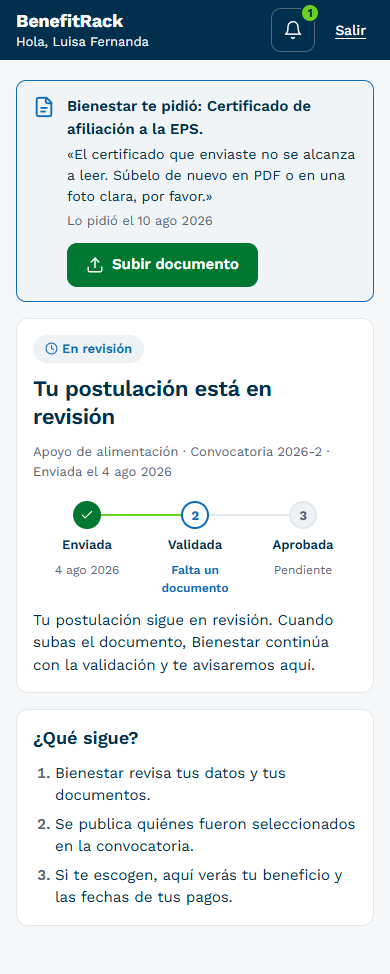
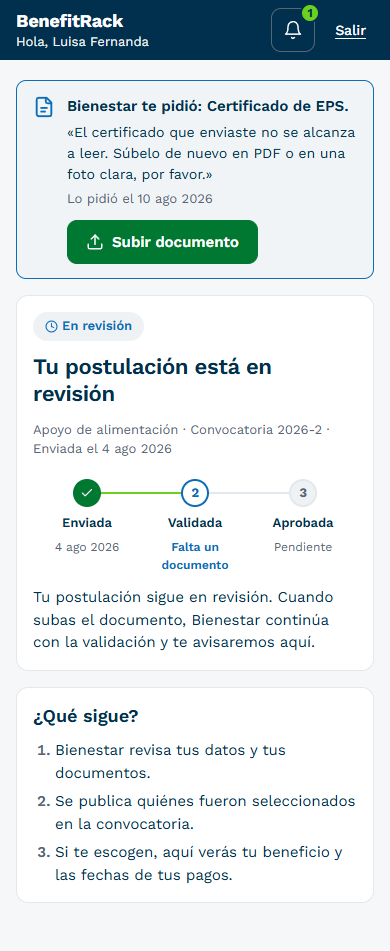
fix: pruebas del orden de la revisión y nombre «Certificado de EPS» en todas las vistas
- 03-detalle-postulacion: pruebas de que «Datos confirmados» y «Aprobar»
  respetan el orden (deshabilitados hasta Validada / sin cupos; ninguno
  habilitado en aprobada o rechazada).
- 01-mi-proceso y 08-subir-documento: «Certificado de afiliación a la EPS»
  pasa a «Certificado de EPS» (nombre del catálogo tipos_documento).

diff --git a/vistas/herramientas/pruebas/03-detalle-postulacion.js b/vistas/herramientas/pruebas/03-detalle-postulacion.js
@@ -41,6 +41,36 @@ module.exports = [
       exige(actual === NOMBRE, `miga actual: «${actual}»`);
     },
   })),
+  // Orden obligatorio (spec §5 Vista 3): primero «Datos confirmados» (Validada), después «Aprobar».
+  ...['pendiente', 'documento-pedido', 'documento-recibido', 'pedir-documento'].map((estado) => ({
+    estado,
+    nombre: 'orden: «Datos confirmados» deshabilitado mientras haya documentos sin validar',
+    prueba: async (page) => {
+      exige(await deshabilitado(page, '[data-prueba=confirmar-datos]'), '[data-prueba=confirmar-datos] no tiene disabled');
+    },
+  })),
+  ...['pendiente', 'documento-pedido', 'documento-recibido', 'pedir-documento', 'sin-cupos'].map((estado) => ({
+    estado,
+    nombre: 'orden: «Aprobar» deshabilitado (no está Validada o no hay cupos)',
+    prueba: async (page) => {
+      exige(await deshabilitado(page, '[data-prueba=aprobar]'), '[data-prueba=aprobar] no tiene disabled');
+    },
+  })),
+  {
+    estado: 'validada',
+    nombre: 'orden: «Aprobar» habilitado en Validada',
+    prueba: async (page) => {
+      exige(!(await deshabilitado(page, '[data-prueba=aprobar]')), '[data-prueba=aprobar] está deshabilitado');
+    },
+  },
+  ...['aprobada', 'rechazada'].map((estado) => ({
+    estado,
+    nombre: 'orden: ya decidida, no hay «Aprobar» habilitado',
+    prueba: async (page) => {
+      const habilitados = await page.$$eval('[data-prueba=aprobar]', (bs) => bs.filter((b) => !b.disabled).length);
+      exige(habilitados === 0, `hay ${habilitados} [data-prueba=aprobar] habilitado(s)`);
+    },
+  })),
   {
     estado: 'pendiente',
     nombre: 'CA-4 «Aprobar» deshabilitado mientras no esté Validada',

diff --git a/vistas/01-mi-proceso/html/documento-pedido.html b/vistas/01-mi-proceso/html/documento-pedido.html
@@ -743,7 +743,7 @@ input[type="checkbox"], input[type="radio"] { width: 20px; height: 20px; accent-
     <div class="br-aviso br-aviso--azul br-aviso--grande" data-prueba="aviso-documento">
       <svg aria-hidden="true" class="br-aviso__icono" viewBox="0 0 24 24" fill="none" stroke="currentColor" stroke-width="2" stroke-linecap="round" stroke-linejoin="round"><path d="M15 2H6a2 2 0 0 0-2 2v16a2 2 0 0 0 2 2h12a2 2 0 0 0 2-2V7Z"></path><path d="M14 2v4a2 2 0 0 0 2 2h4"></path><path d="M9 13h6"></path><path d="M9 17h4"></path></svg>
       <div class="br-aviso__cuerpo">
-        <p class="br-aviso__titulo">Bienestar te pidió: Certificado de afiliación a la EPS.</p>
+        <p class="br-aviso__titulo">Bienestar te pidió: Certificado de EPS.</p>
         <p class="br-aviso__detalle">«El certificado que enviaste no se alcanza a leer. Súbelo de nuevo en PDF o en una foto clara, por favor.»</p>
         <p class="br-suave">Lo pidió el 10 ago 2026</p>
         <a class="br-boton br-boton--primario" href="../../08-subir-documento/html/elegir-archivo.html"><svg aria-hidden="true" width="18" height="18" viewBox="0 0 24 24" fill="none" stroke="currentColor" stroke-width="2" stroke-linecap="round" stroke-linejoin="round"><path d="M21 15v4a2 2 0 0 1-2 2H5a2 2 0 0 1-2-2v-4"></path><path d="m17 8-5-5-5 5"></path><path d="M12 3v12"></path></svg>Subir documento</a>

diff --git a/vistas/_fuente/01-mi-proceso/documento-pedido.html b/vistas/_fuente/01-mi-proceso/documento-pedido.html
@@ -12,7 +12,7 @@
     <div class="br-aviso br-aviso--azul br-aviso--grande" data-prueba="aviso-documento">
       <svg aria-hidden="true" class="br-aviso__icono" viewBox="0 0 24 24" fill="none" stroke="currentColor" stroke-width="2" stroke-linecap="round" stroke-linejoin="round"><path d="M15 2H6a2 2 0 0 0-2 2v16a2 2 0 0 0 2 2h12a2 2 0 0 0 2-2V7Z"></path><path d="M14 2v4a2 2 0 0 0 2 2h4"></path><path d="M9 13h6"></path><path d="M9 17h4"></path></svg>
       <div class="br-aviso__cuerpo">
-        <p class="br-aviso__titulo">Bienestar te pidió: Certificado de afiliación a la EPS.</p>
+        <p class="br-aviso__titulo">Bienestar te pidió: Certificado de EPS.</p>
         <p class="br-aviso__detalle">«El certificado que enviaste no se alcanza a leer. Súbelo de nuevo en PDF o en una foto clara, por favor.»</p>
         <p class="br-suave">Lo pidió el 10 ago 2026</p>
         <a class="br-boton br-boton--primario" href="../../08-subir-documento/html/elegir-archivo.html"><svg aria-hidden="true" width="18" height="18" viewBox="0 0 24 24" fill="none" stroke="currentColor" stroke-width="2" stroke-linecap="round" stroke-linejoin="round"><path d="M21 15v4a2 2 0 0 1-2 2H5a2 2 0 0 1-2-2v-4"></path><path d="m17 8-5-5-5 5"></path><path d="M12 3v12"></path></svg>Subir documento</a>

diff --git a/vistas/08-subir-documento/html/elegir-archivo.html b/vistas/08-subir-documento/html/elegir-archivo.html
@@ -743,7 +743,7 @@ input[type="checkbox"], input[type="radio"] { width: 20px; height: 20px; accent-
     <div class="br-aviso br-aviso--azul br-aviso--grande" data-prueba="pedido">
       <svg aria-hidden="true" class="br-aviso__icono" viewBox="0 0 24 24" fill="none" stroke="currentColor" stroke-width="2" stroke-linecap="round" stroke-linejoin="round"><path d="M15 2H6a2 2 0 0 0-2 2v16a2 2 0 0 0 2 2h12a2 2 0 0 0 2-2V7Z"></path><path d="M14 2v4a2 2 0 0 0 2 2h4"></path><path d="M9 13h6"></path><path d="M9 17h4"></path></svg>
       <div class="br-aviso__cuerpo">
-        <p class="br-aviso__titulo">Bienestar te pidió: Certificado de afiliación a la EPS.</p>
+        <p class="br-aviso__titulo">Bienestar te pidió: Certificado de EPS.</p>
         <p class="br-aviso__detalle">«El certificado que enviaste no se alcanza a leer. Súbelo de nuevo en PDF o en una foto clara, por favor.»</p>
         <p class="br-suave">Lo pidió el 10 ago 2026 · Apoyo de alimentación, convocatoria <span class="br-sin-corte">2026-2</span></p>
       </div>

diff --git a/vistas/08-subir-documento/html/error.html b/vistas/08-subir-documento/html/error.html
@@ -743,7 +743,7 @@ input[type="checkbox"], input[type="radio"] { width: 20px; height: 20px; accent-
     <div class="br-aviso br-aviso--azul br-aviso--grande" data-prueba="pedido">
       <svg aria-hidden="true" class="br-aviso__icono" viewBox="0 0 24 24" fill="none" stroke="currentColor" stroke-width="2" stroke-linecap="round" stroke-linejoin="round"><path d="M15 2H6a2 2 0 0 0-2 2v16a2 2 0 0 0 2 2h12a2 2 0 0 0 2-2V7Z"></path><path d="M14 2v4a2 2 0 0 0 2 2h4"></path><path d="M9 13h6"></path><path d="M9 17h4"></path></svg>
       <div class="br-aviso__cuerpo">
-        <p class="br-aviso__titulo">Bienestar te pidió: Certificado de afiliación a la EPS.</p>
+        <p class="br-aviso__titulo">Bienestar te pidió: Certificado de EPS.</p>
         <p class="br-aviso__detalle">«El certificado que enviaste no se alcanza a leer. Súbelo de nuevo en PDF o en una foto clara, por favor.»</p>
         <p class="br-suave">Lo pidió el 10 ago 2026 · Apoyo de alimentación, convocatoria <span class="br-sin-corte">2026-2</span></p>
       </div>

diff --git a/vistas/08-subir-documento/html/subiendo.html b/vistas/08-subir-documento/html/subiendo.html
@@ -743,7 +743,7 @@ input[type="checkbox"], input[type="radio"] { width: 20px; height: 20px; accent-
     <div class="br-aviso br-aviso--azul br-aviso--grande" data-prueba="pedido">
       <svg aria-hidden="true" class="br-aviso__icono" viewBox="0 0 24 24" fill="none" stroke="currentColor" stroke-width="2" stroke-linecap="round" stroke-linejoin="round"><path d="M15 2H6a2 2 0 0 0-2 2v16a2 2 0 0 0 2 2h12a2 2 0 0 0 2-2V7Z"></path><path d="M14 2v4a2 2 0 0 0 2 2h4"></path><path d="M9 13h6"></path><path d="M9 17h4"></path></svg>
       <div class="br-aviso__cuerpo">
-        <p class="br-aviso__titulo">Bienestar te pidió: Certificado de afiliación a la EPS.</p>
+        <p class="br-aviso__titulo">Bienestar te pidió: Certificado de EPS.</p>
         <p class="br-aviso__detalle">«El certificado que enviaste no se alcanza a leer. Súbelo de nuevo en PDF o en una foto clara, por favor.»</p>
         <p class="br-suave">Lo pidió el 10 ago 2026 · Apoyo de alimentación, convocatoria <span class="br-sin-corte">2026-2</span></p>
       </div>

diff --git a/vistas/_fuente/08-subir-documento/elegir-archivo.html b/vistas/_fuente/08-subir-documento/elegir-archivo.html
@@ -12,7 +12,7 @@
     <div class="br-aviso br-aviso--azul br-aviso--grande" data-prueba="pedido">
       <svg aria-hidden="true" class="br-aviso__icono" viewBox="0 0 24 24" fill="none" stroke="currentColor" stroke-width="2" stroke-linecap="round" stroke-linejoin="round"><path d="M15 2H6a2 2 0 0 0-2 2v16a2 2 0 0 0 2 2h12a2 2 0 0 0 2-2V7Z"></path><path d="M14 2v4a2 2 0 0 0 2 2h4"></path><path d="M9 13h6"></path><path d="M9 17h4"></path></svg>
       <div class="br-aviso__cuerpo">
-        <p class="br-aviso__titulo">Bienestar te pidió: Certificado de afiliación a la EPS.</p>
+        <p class="br-aviso__titulo">Bienestar te pidió: Certificado de EPS.</p>
         <p class="br-aviso__detalle">«El certificado que enviaste no se alcanza a leer. Súbelo de nuevo en PDF o en una foto clara, por favor.»</p>
         <p class="br-suave">Lo pidió el 10 ago 2026 · Apoyo de alimentación, convocatoria <span class="br-sin-corte">2026-2</span></p>
       </div>

diff --git a/vistas/_fuente/08-subir-documento/error.html b/vistas/_fuente/08-subir-documento/error.html
@@ -12,7 +12,7 @@
     <div class="br-aviso br-aviso--azul br-aviso--grande" data-prueba="pedido">
       <svg aria-hidden="true" class="br-aviso__icono" viewBox="0 0 24 24" fill="none" stroke="currentColor" stroke-width="2" stroke-linecap="round" stroke-linejoin="round"><path d="M15 2H6a2 2 0 0 0-2 2v16a2 2 0 0 0 2 2h12a2 2 0 0 0 2-2V7Z"></path><path d="M14 2v4a2 2 0 0 0 2 2h4"></path><path d="M9 13h6"></path><path d="M9 17h4"></path></svg>
       <div class="br-aviso__cuerpo">
-        <p class="br-aviso__titulo">Bienestar te pidió: Certificado de afiliación a la EPS.</p>
+        <p class="br-aviso__titulo">Bienestar te pidió: Certificado de EPS.</p>
         <p class="br-aviso__detalle">«El certificado que enviaste no se alcanza a leer. Súbelo de nuevo en PDF o en una foto clara, por favor.»</p>
         <p class="br-suave">Lo pidió el 10 ago 2026 · Apoyo de alimentación, convocatoria <span class="br-sin-corte">2026-2</span></p>
       </div>

diff --git a/vistas/_fuente/08-subir-documento/subiendo.html b/vistas/_fuente/08-subir-documento/subiendo.html
@@ -12,7 +12,7 @@
     <div class="br-aviso br-aviso--azul br-aviso--grande" data-prueba="pedido">
       <svg aria-hidden="true" class="br-aviso__icono" viewBox="0 0 24 24" fill="none" stroke="currentColor" stroke-width="2" stroke-linecap="round" stroke-linejoin="round"><path d="M15 2H6a2 2 0 0 0-2 2v16a2 2 0 0 0 2 2h12a2 2 0 0 0 2-2V7Z"></path><path d="M14 2v4a2 2 0 0 0 2 2h4"></path><path d="M9 13h6"></path><path d="M9 17h4"></path></svg>
       <div class="br-aviso__cuerpo">
-        <p class="br-aviso__titulo">Bienestar te pidió: Certificado de afiliación a la EPS.</p>
+        <p class="br-aviso__titulo">Bienestar te pidió: Certificado de EPS.</p>
         <p class="br-aviso__detalle">«El certificado que enviaste no se alcanza a leer. Súbelo de nuevo en PDF o en una foto clara, por favor.»</p>
         <p class="br-suave">Lo pidió el 10 ago 2026 · Apoyo de alimentación, convocatoria <span class="br-sin-corte">2026-2</span></p>
       </div>

diff --git a/vistas/herramientas/pruebas/08-subir-documento.js b/vistas/herramientas/pruebas/08-subir-documento.js
@@ -14,7 +14,7 @@ module.exports = [
     nombre: 'muestra el documento pedido y el mensaje de Bienestar',
     prueba: async (page) => {
       const t = await texto(page, '[data-prueba=pedido]');
-      exige(t.includes('Certificado de afiliación a la EPS'), `falta el documento pedido: «${t}»`);
+      exige(t.includes('Certificado de EPS'), `falta el documento pedido: «${t}»`);
       exige(/no se alcanza a leer/.test(t), `falta el mensaje del administrador: «${t}»`);
     },
   },
